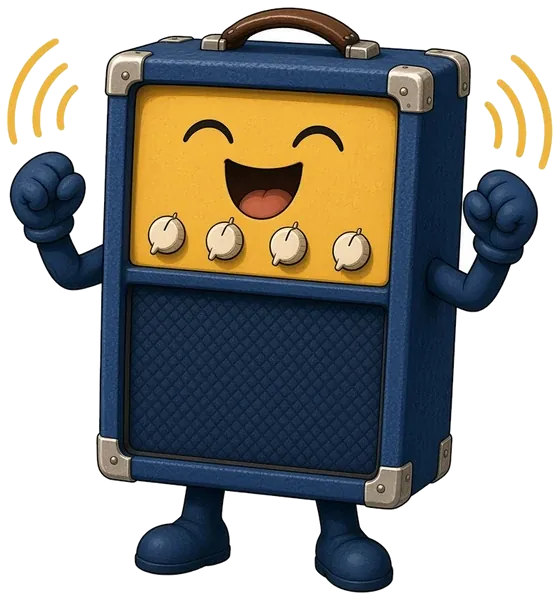
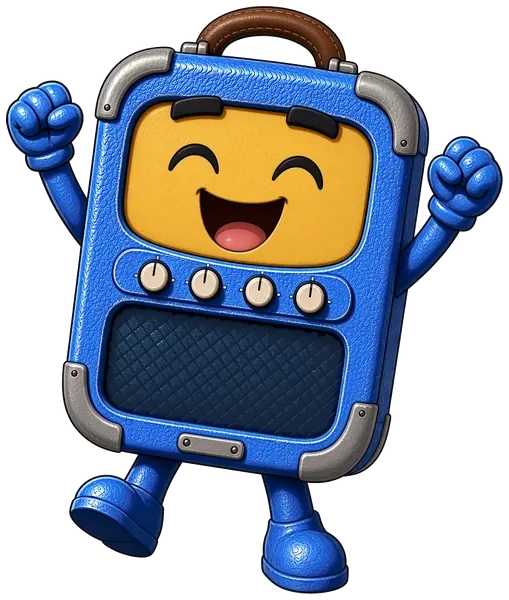
Louie: switch to bright-blue Tolex design (Graham's choice)

diff --git a/louie.js b/louie.js
@@ -6,7 +6,7 @@
 // panel for a face (two eyes, one mouth, a row of four cream knobs), a plain navy grille, hands and two short legs.
 // The hard rule: exactly one mouth (class lv-mouth), always on the yellow panel between the eyes and the knobs.
 // The grille is plain cloth: never a mouth, a smile line or any feature on it, in any mood, pose or size.
-// Hands have fingers, navy like his arms (Graham, 2026-11-17), and no hand ever shows one finger standing straight up
+// Hands have fingers, blue Tolex like his arms (Graham, 2026-11-17), and no hand ever shows one finger standing straight up
 // from the middle: it reads as the middle finger (4.39.1). No cheeks, no blush, no lamp.
 // His colours are locked: the --lv-* variables on .louie in styles.css, and the same values written on each
 // shape, so a picture made from the SVG alone shows the same Louie.
@@ -26,7 +26,7 @@ const guitaristFinger = (x, len, r) => `<rect x="${x - 4.6}" y="${-22 - len}" wi
 const G_PALM = `<path d="M-13 -4C-15.5 -11 -15.5 -20 -12.5 -25C-8 -28 8 -28 12.5 -25C15.5 -20 15.5 -11 13 -4C8 1 -8 1 -13 -4Z"/>`;
 const G_ROLLS = "C16.5 -26.5 16 -23.5 13.5 -21.5C16.5 -19 16 -15.5 13.5 -13.5C16.5 -11 16 -7 13 -5C12 0 6 1 0 1C-6 1 -10 1 -11 -1Z";
 const G_THUMB_ACROSS = `<path d="M-12.5 -15C-6 -18.5 4 -18.5 8.5 -15C10.5 -13 9.5 -10 7.5 -9.5C1 -8 -6 -8.5 -12 -10Z"/>`;
-/* each hand as [shape, creases, over]: the guitarist draws them in skin, Louie (since 03b) in navy */
+/* each hand as [shape, creases, over]: the guitarist draws them in skin, Louie (since 03b) in blue Tolex like his arms */
 const HAND_PARTS = {
   fist: [`<path d="M-13 -3C-16 -9 -16 -20 -12 -25Q-9 -29 -5.5 -26.5Q-2 -29.5 1.5 -26.5Q5 -29.5 8.5 -26.5Q12.5 -28 14 -23C16 -17 15.5 -9 13 -3C8 1 -8 1 -13 -3Z"/>`,
     `<path d="M-5.5 -26V-21M1.5 -26V-21M8.5 -26V-21"/>`, G_THUMB_ACROSS],
@@ -51,10 +51,10 @@ export function mittenOf(name, skin, sh, ln, cuff) {
     .replace(/class="lv-fl"/g, `stroke="${ln}"`).replace(/class="lv-cuff"/g, `fill="${cuff}"`);
 }
 
-/* Louie's hands (03b): the same fingered shapes as the guitarist's, in navy like his arms: an ink outline behind, the
-   Tolex shadow under the lit Tolex blue, ink creases, and a navy cuff. The wrist is at 0,0, the fingers point up. */
+/* Louie's hands (03b): the same fingered shapes as the guitarist's, in blue Tolex like his arms: an ink outline behind, the
+   Tolex shadow under the lit Tolex blue, ink creases, and a Tolex-shadow cuff. The wrist is at 0,0, the fingers point up. */
 const INK = "#0B0F14";
-const BLUE = 'fill="#23406A"', NAVY = 'fill="#1A3152"';
+const BLUE = 'fill="#3A86FF"', NAVY = 'fill="#2C6FE0"';
 const louieHand = (shape, creases = "", over = "") => `<g class="lv-mit-o" fill="none" stroke="${INK}" stroke-width="3.4" stroke-linejoin="round">${shape}${over}</g>`
   + `<g class="lv-mit-s" ${NAVY} transform="translate(1.25 1.9)">${shape}${over}</g><g class="lv-mit" ${BLUE}>${shape}</g>`
   + `<g class="lv-mit-l" fill="none" stroke="${INK}" stroke-opacity=".55" stroke-width="1.9" stroke-linecap="round">${creases}</g>`
@@ -128,7 +128,7 @@ export function louie(mood = "happy", { pose, size = 120, label = "Louie" } = {}
   const limbs = layer => !arms ? "" : arms.map(([sx, sy, wx, wy, rot, sign]) => {
     const mx = (sx + wx) / 2 + (wx < sx ? -8 : 8), my = Math.min(sy, wy) + (wy < sy ? 6 : 12);
     const arm = `d="M${sx} ${sy} Q${mx} ${my} ${wx} ${wy}" fill="none" stroke-linecap="round"`, at = `transform="translate(${wx} ${wy}) rotate(${rot}) scale(0.86 1.02)"`;
-    return layer === "arm" ? `<path class="lv-arm-o" stroke="${INK}" stroke-width="${r1(15 + 2 * ol)}" ${arm}/><path class="lv-arm" stroke="#23406A" stroke-width="15" ${arm}/><path stroke="#fff" stroke-opacity=".12" stroke-width="4" ${arm} transform="translate(-2 -2)"/>`
+    return layer === "arm" ? `<path class="lv-arm-o" stroke="${INK}" stroke-width="${r1(15 + 2 * ol)}" ${arm}/><path class="lv-arm" stroke="#3A86FF" stroke-width="15" ${arm}/><path stroke="#fff" stroke-opacity=".12" stroke-width="4" ${arm} transform="translate(-2 -2)"/>`
       : layer === "hand" ? `<g ${at}>${HANDS[sign]()}</g>`
       : `<path stroke-width="${r1(15 + 2 * rim)}" ${arm}/><g ${at}>${handShape(sign)}</g>`;
   }).join("");
@@ -149,12 +149,12 @@ export function louie(mood = "happy", { pose, size = 120, label = "Louie" } = {}
   <g class="lv-body" transform="${tilt}">
     <g class="lv-rim" opacity="0" fill="#FFE2B4" stroke="#FFE2B4" stroke-width="${r1(2 * rim)}" stroke-linejoin="round">${limbs("rim")}<path stroke-width="${r1(8 + 2 * rim)}" ${HANDLE}/><rect x="${CAB.x}" y="${CAB.y}" width="${CAB.w}" height="${CAB.h}" rx="7"/>${CAPS.map(cap).join("")}${LEGS}${BOOTS}</g>
     ${limbs("arm")}
-    <g class="lv-tolex" fill="#23406A" ${edge}>${LEGS}</g><g fill="url(#${id}t)">${LEGS}</g>
-    <g class="lv-side" fill="#1A3152" ${edge}>${BOOTS}</g><g fill="url(#${id}b)">${BOOTS}</g>
+    <g class="lv-tolex" fill="#3A86FF" ${edge}>${LEGS}</g><g fill="url(#${id}t)">${LEGS}</g>
+    <g class="lv-side" fill="#2C6FE0" ${edge}>${BOOTS}</g><g fill="url(#${id}b)">${BOOTS}</g>
     <path stroke="${INK}" stroke-width="${r1(8 + 2 * ol)}" ${HANDLE}/><path class="lv-leather" stroke="#55331B" stroke-width="8" ${HANDLE}/><path stroke="#fff" stroke-opacity=".22" stroke-width="2" d="M81 15 C82 5 118 5 119 15" fill="none" stroke-linecap="round"/>
     <g class="lv-nickel" fill="#948573" ${edge}><rect x="71" y="14" width="13" height="8" rx="2"/><rect x="116" y="14" width="13" height="8" rx="2"/></g>
-    <rect class="lv-side" fill="#1A3152" x="${CAB.x}" y="${CAB.y}" width="${CAB.w}" height="${CAB.h}" rx="7"/>
-    <rect class="lv-tolex" fill="#23406A" x="${CAB.x}" y="${CAB.y}" width="${CAB.w - 9}" height="${CAB.h}" rx="7"/>
+    <rect class="lv-side" fill="#2C6FE0" x="${CAB.x}" y="${CAB.y}" width="${CAB.w}" height="${CAB.h}" rx="7"/>
+    <rect class="lv-tolex" fill="#3A86FF" x="${CAB.x}" y="${CAB.y}" width="${CAB.w - 9}" height="${CAB.h}" rx="7"/>
     <rect fill="url(#${id}t)" x="${CAB.x}" y="${CAB.y}" width="${CAB.w}" height="${CAB.h}" rx="7"/><rect fill="url(#${id}b)" x="${CAB.x}" y="${CAB.y}" width="${CAB.w}" height="${CAB.h}" rx="7"/>
     <rect x="${CAB.x}" y="${CAB.y}" width="${CAB.w}" height="${CAB.h}" rx="7" fill="none" ${edge}/>
     <rect x="${P.x - 3}" y="${P.y - 3}" width="${P.w + 6}" height="${G.y + G.h - P.y + 6}" rx="5" fill="none" stroke="#000" stroke-opacity=".35" stroke-width="2"/>

diff --git a/styles.css b/styles.css
@@ -2054,13 +2054,13 @@ h2, .label, .sheet .sec { font-family: var(--display); }
 /* Louie's colours (Road Ready): locked, the same in every look. They are set on Louie himself, so the looks' own
    --lv-* values (which the electric tuner head also reads) stay as they were. A finish from the Merch table
    (.fin-*, body[data-wear]) still recolours him. Nothing draws --lv-cheek, --lv-lamp, --lv-tongue or --lv-hi on him now. */
-.louie { overflow: visible; --lv-body: #23406A; --lv-shade: #1A3152; --lv-face: #F0B23A; --lv-face-sh: #D9982A; --lv-grille: #182D47; --lv-slat: #2A4466; --lv-pupil: #0B0F14; --lv-nickel: #948573; --lv-leather: #55331B; --lv-knob: #E8D5B3; --lv-shadow: #000; }
+.louie { overflow: visible; --lv-body: #3A86FF; --lv-shade: #2C6FE0; --lv-face: #F0B23A; --lv-face-sh: #D9982A; --lv-grille: #182D47; --lv-slat: #2A4466; --lv-pupil: #0B0F14; --lv-nickel: #948573; --lv-leather: #55331B; --lv-knob: #E8D5B3; --lv-shadow: #000; }
 .louie .lv-mit-o, .louie .lv-arm-o { stroke: var(--lv-pupil); } .louie .lv-tolex, .louie .lv-mit { fill: var(--lv-body); } .louie .lv-side, .louie .lv-mit-s, .louie .lv-cuff { fill: var(--lv-shade); } .louie .lv-arm { stroke: var(--lv-body); }
 .louie .lv-panel { fill: var(--lv-face); } .louie .lv-panel-sh { fill: var(--lv-face-sh); } .louie .lv-ink { fill: var(--lv-pupil); } .louie .lv-inks { stroke: var(--lv-pupil); }
 .louie .lv-cloth { fill: var(--lv-grille); } .louie .lv-weave { stroke: var(--lv-slat); } .louie .lv-knob { fill: var(--lv-knob); }
 .louie .lv-nickel { fill: var(--lv-nickel); } .louie .lv-leather { stroke: var(--lv-leather); }
 .louie .lv-shadow { fill: var(--lv-shadow); opacity: .18; } .louie .lv-z { fill: var(--muted); }
-/* The warm rim, on dark looks only: a 3 px outline of his silhouette so navy reads on a dark screen. The colour is
+/* The warm rim, on dark looks only: a 3 px outline of his silhouette so his blue reads on a dark screen. The colour is
    --rr-louie-rim (#FFE2B4 at 35 percent) drawn solid and faded as one layer, so overlapping parts don't double up. */
 .louie .lv-rim { opacity: 0; }
 :root:is([data-look="neon"], [data-look="headliner"]) .louie .lv-rim { opacity: .35; }

diff --git a/CLAUDE.md b/CLAUDE.md
@@ -38,7 +38,7 @@ map; docs/DATA.md describes every stored field. Read those before guessing.
 
 The guitar is how you play the game. Version 4 look: four palettes. Light and Dark are Road Ready (Graham, 2026-11-17; docs/ROAD-READY-PLAN.md): dark or cream tolex, grille cloth, chrome piping, cream engraved plate buttons and warm amber, in Space Grotesk, Inter and IBM Plex Mono. Its colours are --rr-* tokens set only on data-look neon (dark) and festival (light); its text sizes are --type-* tokens that follow the iPhone text size. Green Room and Headliner keep the earlier style: flat colour, chunky buttons on a darker lip, Fredoka and Nunito. Light and Dark are free; Green Room is bought and Headliner earned at the Merch table. Headliner (black, gold and chrome with violet and blaze orange, 4.77.0) is a dark look that shares 23 rules with Road Ready dark through :root:is([data-look="neon"], [data-look="headliner"]); a Road Ready change to one of those rules splits the selector so Headliner stays as it is. Louie the amp is
 the mascot (no guitar-pick mascot anywhere; 4.14.1 and 4.15.0 removed the last
-picks). Louie is Road Ready in every look (docs/road-ready/louie-design-spec.md section 9): a blue 1x12 combo amp with a yellow control-panel face, shown as Grok's painted art (art/louie/v2, light and dark per pose). Exactly one mouth, on the yellow panel between the eyes and the four cream knobs; the grille is plain navy cloth and never a face. Hands with fingers, navy like his arms, and never one finger standing straight up. No cheeks, a locked palette, a warm rim on dark looks. louie.js picks the picture and keeps a code drawing as the fallback. Text in the accent colour uses `--accent-ink` (contrast in the light
+picks). Louie is Road Ready in every look (docs/road-ready/louie-design-spec.md section 9): a blue 1x12 combo amp with a yellow control-panel face, shown as Grok's painted art (art/louie/v2, light and dark per pose). Exactly one mouth, on the yellow panel between the eyes and the four cream knobs; the grille is plain navy cloth and never a face. Hands with fingers, blue Tolex like his arms, and never one finger standing straight up. No cheeks, a locked palette, a warm rim on dark looks. louie.js picks the picture and keeps a code drawing as the fallback. Text in the accent colour uses `--accent-ink` (contrast in the light
 palettes). The mockup canvas artifact has the screens and the Friends board. The Road path (4.82.0) is a guitar neck per leg: stops are finger dots and fret inlays (a box is one, the headline the double), picks only in Opening night.
 Your guitarist (4.85.0): wherever the app means *you* (profile card and share card, chart row, rival battle, duel, Friends board) it shows a guitarist built from parts in Louie's style; Louie stays the mascot everywhere else (the Road, gig end, callouts, tips, Opening night's guide, the Band tab). The look follows the venue, patches are earned and the guitar is the Road guitar you're on, so none of those are picked or bought; only hats are on the Merch table. `docs/GUITARIST-PLAN.md`.
 Louie's friends (Graham's art, 2026-10-21), redrawn in Louie's style: Lola

diff --git a/docs/road-ready/louie-design-spec.md b/docs/road-ready/louie-design-spec.md
@@ -234,13 +234,15 @@ Louie is **Road Ready**: a blue 1x12 combo amp with a yellow control-panel face 
 
 - **Exactly one mouth, always on the yellow panel**, between the eyes and the four cream knobs.
 - **The grille is never a face.** It's plain navy woven cloth with at most a faint speaker circle. No mouth, smile line or features on the grille, in any pose, size or frame.
-- Hands with fingers, navy like his arms (Graham, 2026-11-17). No hand ever shows one finger standing straight up: it reads as the middle finger. Short navy legs, brown leather handle, nickel corners.
+- Hands with fingers, blue Tolex like his arms (Graham, 2026-11-17). No hand ever shows one finger standing straight up: it reads as the middle finger. Short blue Tolex legs, brown leather handle, nickel corners.
+- **Stock Louie is bright-blue Tolex (Graham chose bright B on Nov 18, 2026).** Body #3A86FF, shade #2C6FE0, highlight #6BA4FF, with a visible pebble grain and light wear. The hands are the same blue Tolex as the arms (not yellow), with fingers and bold ink outlines. The panel, grille, knobs, corners and handle keep their colours. Grok's painted art in art/louie/v2 is the source of truth; don't redraw him.
 - **Locked palette:**
 
 | Part | Hex |
 |---|---|
-| Tolex blue | #23406A |
-| Tolex shadow | #1A3152 |
+| Tolex blue | #3A86FF |
+| Tolex shadow | #2C6FE0 |
+| Tolex highlight | #6BA4FF |
 | Panel yellow | #F0B23A |
 | Panel shade | #D9982A |
 | Grille navy | #182D47 |
@@ -251,9 +253,9 @@ Louie is **Road Ready**: a blue 1x12 combo amp with a yellow control-panel face 
 | Ink line | #0B0F14 |
 
 - **Expressions:** idle, cheering, listening, proud, oops, sleepy, nervous, celebrating. No tears, frowns or guilt faces. Oops is sheepish, never sad.
-- **On dark surfaces,** add a 3 px warm rim (#FFE2B4 at 35 percent) so the navy reads. Navy on #141210 is only 1.3:1 without it. On light surfaces, no rim is needed (12:1).
+- **On dark surfaces,** add a 3 px warm rim (#FFE2B4 at 35 percent) so his outline reads. The painted dark pictures (`-dark.webp`) bake in a wider, stronger rim (Nov 18, 2026): #FFE2B4 at 60 percent, 12 px on the 600 px art (solid for 9 px, fading over the last 3), so it is about 3 px at 120 pt and still 1.5 px at 60 pt on #141210. The dark files are 12 px bigger on each side than the light ones. The blue on #141210 is 5.4:1, but the dark ink outline melts into the ground without the rim. On light surfaces, no rim is needed (3.0:1 for the blue on #F6EFE2, with the ink outline carrying the edge).
 - **Placement:**
-  - Road: peeking from the left edge, one hand on the guitar body, away from inlays.
+  - Road: peeking from the left edge, one hand on the guitar body, away from inlays. The peek art (art/louie/louie-peek-*.webp) is bright B with his right hand resting on a maple guitar body, both eyes and the mouth visible.
   - Show Complete: cheering beside the guitar.
   - Lists: only as a fixed badge (Songbook hint banner, Me tip jar row). Never over rows.
   - Playing: only in the first-run hint.

diff --git a/docs/road-ready/claude-prompt-04-tab-bar.md b/docs/road-ready/claude-prompt-04-tab-bar.md
@@ -84,7 +84,7 @@ The bar on Road, Songbook and Me, dark and light, plus `data-ax="3"`. Put the ba
 - **Pull request.** Use the playbook's PR format (`templates/pr.md`): Status "Waiting for review", Triggers "Uploads and deploys nothing" (the PR targets `road-ready`, which deploys nothing), What changed, Tests actually run (counts, or "not run" and why; never claim a pass you didn't see), the acceptance criterion to test table, Limitations, a phone review checklist of three items at most, Built by, Reviewed by, and "Next step: Opus reviews". Title in plain words, starting "Road Ready 04:".
 - **Screenshots.** Make them the CLAUDE.md way: a throwaway `tests/e2e/zz_*.e2e.mjs` using `phone()` that saves to `$SHOT`, run it, then delete it before you commit. Take these, as PNGs, and put them in the PR description: phone dark, phone light, and phone dark with large text (see "Large text" below). Compare each one side by side with the round 10 image named in this prompt and list any differences you chose to leave.
 - **Writing.** Every word Graham or a player sees (UI text, comments he reads, commit messages, the PR) is plain and direct, with no em dashes. Any lyrics in tests or fixtures are made up, never real song lyrics.
-- **Louie hard rules.** Louie is Road Ready: a blue 1x12 combo amp with a yellow control-panel face. Exactly one mouth, always on the yellow panel between the eyes and the four cream knobs. The grille is plain navy cloth and is never a face (no mouth, smile line or features on it). Hands with fingers, navy like his arms; never one finger standing straight up (it reads as the middle finger). No blush or cheek spots, no guitar pick, no amp brand logos. He is a character who cheers the player on; never call him an AI or an assistant.
+- **Louie hard rules.** Louie is Road Ready: a blue 1x12 combo amp with a yellow control-panel face. Exactly one mouth, always on the yellow panel between the eyes and the four cream knobs. The grille is plain navy cloth and is never a face (no mouth, smile line or features on it). Hands with fingers, blue Tolex like his arms; never one finger standing straight up (it reads as the middle finger). No blush or cheek spots, no guitar pick, no amp brand logos. He is a character who cheers the player on; never call him an AI or an assistant.
 - **Product rules.** Encouraging, never guilt: no streak-loss warnings, sad faces or "you missed a day" copy in anything you add. Not a coin-path game board. Tolex and amp parts, not cartoon chrome. Tab icons are our own drawings. No lamps and no VU gauge anywhere you touch.
 
 ### How the spec maps to this web app

diff --git a/docs/road-ready/claude-prompt-05-playing.md b/docs/road-ready/claude-prompt-05-playing.md
@@ -80,7 +80,7 @@ Playing with controls hidden, shown, the first-run hint, and large text, in dark
 - **Pull request.** Use the playbook's PR format (`templates/pr.md`): Status "Waiting for review", Triggers "Uploads and deploys nothing" (the PR targets `road-ready`, which deploys nothing), What changed, Tests actually run (counts, or "not run" and why; never claim a pass you didn't see), the acceptance criterion to test table, Limitations, a phone review checklist of three items at most, Built by, Reviewed by, and "Next step: Opus reviews". Title in plain words, starting "Road Ready 05:".
 - **Screenshots.** Make them the CLAUDE.md way: a throwaway `tests/e2e/zz_*.e2e.mjs` using `phone()` that saves to `$SHOT`, run it, then delete it before you commit. Take these, as PNGs, and put them in the PR description: phone dark, phone light, and phone dark with large text (see "Large text" below). Compare each one side by side with the round 10 image named in this prompt and list any differences you chose to leave.
 - **Writing.** Every word Graham or a player sees (UI text, comments he reads, commit messages, the PR) is plain and direct, with no em dashes. Any lyrics in tests or fixtures are made up, never real song lyrics.
-- **Louie hard rules.** Louie is Road Ready: a blue 1x12 combo amp with a yellow control-panel face. Exactly one mouth, always on the yellow panel between the eyes and the four cream knobs. The grille is plain navy cloth and is never a face (no mouth, smile line or features on it). Hands with fingers, navy like his arms; never one finger standing straight up (it reads as the middle finger). No blush or cheek spots, no guitar pick, no amp brand logos. He is a character who cheers the player on; never call him an AI or an assistant.
+- **Louie hard rules.** Louie is Road Ready: a blue 1x12 combo amp with a yellow control-panel face. Exactly one mouth, always on the yellow panel between the eyes and the four cream knobs. The grille is plain navy cloth and is never a face (no mouth, smile line or features on it). Hands with fingers, blue Tolex like his arms; never one finger standing straight up (it reads as the middle finger). No blush or cheek spots, no guitar pick, no amp brand logos. He is a character who cheers the player on; never call him an AI or an assistant.
 - **Product rules.** Encouraging, never guilt: no streak-loss warnings, sad faces or "you missed a day" copy in anything you add. Not a coin-path game board. Tolex and amp parts, not cartoon chrome. Tab icons are our own drawings. No lamps and no VU gauge anywhere you touch.
 
 ### How the spec maps to this web app

diff --git a/docs/road-ready/claude-prompt-06-show-complete.md b/docs/road-ready/claude-prompt-06-show-complete.md
@@ -76,7 +76,7 @@ Ordinary show (glow) and new-guitar show (case), dark and light, plus large text
 - **Pull request.** Use the playbook's PR format (`templates/pr.md`): Status "Waiting for review", Triggers "Uploads and deploys nothing" (the PR targets `road-ready`, which deploys nothing), What changed, Tests actually run (counts, or "not run" and why; never claim a pass you didn't see), the acceptance criterion to test table, Limitations, a phone review checklist of three items at most, Built by, Reviewed by, and "Next step: Opus reviews". Title in plain words, starting "Road Ready 06:".
 - **Screenshots.** Make them the CLAUDE.md way: a throwaway `tests/e2e/zz_*.e2e.mjs` using `phone()` that saves to `$SHOT`, run it, then delete it before you commit. Take these, as PNGs, and put them in the PR description: phone dark, phone light, and phone dark with large text (see "Large text" below). Compare each one side by side with the round 10 image named in this prompt and list any differences you chose to leave.
 - **Writing.** Every word Graham or a player sees (UI text, comments he reads, commit messages, the PR) is plain and direct, with no em dashes. Any lyrics in tests or fixtures are made up, never real song lyrics.
-- **Louie hard rules.** Louie is Road Ready: a blue 1x12 combo amp with a yellow control-panel face. Exactly one mouth, always on the yellow panel between the eyes and the four cream knobs. The grille is plain navy cloth and is never a face (no mouth, smile line or features on it). Hands with fingers, navy like his arms; never one finger standing straight up (it reads as the middle finger). No blush or cheek spots, no guitar pick, no amp brand logos. He is a character who cheers the player on; never call him an AI or an assistant.
+- **Louie hard rules.** Louie is Road Ready: a blue 1x12 combo amp with a yellow control-panel face. Exactly one mouth, always on the yellow panel between the eyes and the four cream knobs. The grille is plain navy cloth and is never a face (no mouth, smile line or features on it). Hands with fingers, blue Tolex like his arms; never one finger standing straight up (it reads as the middle finger). No blush or cheek spots, no guitar pick, no amp brand logos. He is a character who cheers the player on; never call him an AI or an assistant.
 - **Product rules.** Encouraging, never guilt: no streak-loss warnings, sad faces or "you missed a day" copy in anything you add. Not a coin-path game board. Tolex and amp parts, not cartoon chrome. Tab icons are our own drawings. No lamps and no VU gauge anywhere you touch.
 
 ### How the spec maps to this web app

diff --git a/docs/road-ready/claude-prompt-07-songbook.md b/docs/road-ready/claude-prompt-07-songbook.md
@@ -71,7 +71,7 @@ Songbook dark, light, and large text, next to `r10-05`. Use made-up song titles 
 - **Pull request.** Use the playbook's PR format (`templates/pr.md`): Status "Waiting for review", Triggers "Uploads and deploys nothing" (the PR targets `road-ready`, which deploys nothing), What changed, Tests actually run (counts, or "not run" and why; never claim a pass you didn't see), the acceptance criterion to test table, Limitations, a phone review checklist of three items at most, Built by, Reviewed by, and "Next step: Opus reviews". Title in plain words, starting "Road Ready 07:".
 - **Screenshots.** Make them the CLAUDE.md way: a throwaway `tests/e2e/zz_*.e2e.mjs` using `phone()` that saves to `$SHOT`, run it, then delete it before you commit. Take these, as PNGs, and put them in the PR description: phone dark, phone light, and phone dark with large text (see "Large text" below). Compare each one side by side with the round 10 image named in this prompt and list any differences you chose to leave.
 - **Writing.** Every word Graham or a player sees (UI text, comments he reads, commit messages, the PR) is plain and direct, with no em dashes. Any lyrics in tests or fixtures are made up, never real song lyrics.
-- **Louie hard rules.** Louie is Road Ready: a blue 1x12 combo amp with a yellow control-panel face. Exactly one mouth, always on the yellow panel between the eyes and the four cream knobs. The grille is plain navy cloth and is never a face (no mouth, smile line or features on it). Hands with fingers, navy like his arms; never one finger standing straight up (it reads as the middle finger). No blush or cheek spots, no guitar pick, no amp brand logos. He is a character who cheers the player on; never call him an AI or an assistant.
+- **Louie hard rules.** Louie is Road Ready: a blue 1x12 combo amp with a yellow control-panel face. Exactly one mouth, always on the yellow panel between the eyes and the four cream knobs. The grille is plain navy cloth and is never a face (no mouth, smile line or features on it). Hands with fingers, blue Tolex like his arms; never one finger standing straight up (it reads as the middle finger). No blush or cheek spots, no guitar pick, no amp brand logos. He is a character who cheers the player on; never call him an AI or an assistant.
 - **Product rules.** Encouraging, never guilt: no streak-loss warnings, sad faces or "you missed a day" copy in anything you add. Not a coin-path game board. Tolex and amp parts, not cartoon chrome. Tab icons are our own drawings. No lamps and no VU gauge anywhere you touch.
 
 ### How the spec maps to this web app

diff --git a/docs/road-ready/claude-prompt-09-merch-builder.md b/docs/road-ready/claude-prompt-09-merch-builder.md
@@ -75,7 +75,7 @@ Builder in dark and light, each category open once, a locked swatch, "Leave stri
 - **Pull request.** Use the playbook's PR format (`templates/pr.md`): Status "Waiting for review", Triggers "Uploads and deploys nothing" (the PR targets `road-ready`, which deploys nothing), What changed, Tests actually run (counts, or "not run" and why; never claim a pass you didn't see), the acceptance criterion to test table, Limitations, a phone review checklist of three items at most, Built by, Reviewed by, and "Next step: Opus reviews". Title in plain words, starting "Road Ready 09:".
 - **Screenshots.** Make them the CLAUDE.md way: a throwaway `tests/e2e/zz_*.e2e.mjs` using `phone()` that saves to `$SHOT`, run it, then delete it before you commit. Take these, as PNGs, and put them in the PR description: phone dark, phone light, and phone dark with large text (see "Large text" below). Compare each one side by side with the round 10 image named in this prompt and list any differences you chose to leave.
 - **Writing.** Every word Graham or a player sees (UI text, comments he reads, commit messages, the PR) is plain and direct, with no em dashes. Any lyrics in tests or fixtures are made up, never real song lyrics.
-- **Louie hard rules.** Louie is Road Ready: a blue 1x12 combo amp with a yellow control-panel face. Exactly one mouth, always on the yellow panel between the eyes and the four cream knobs. The grille is plain navy cloth and is never a face (no mouth, smile line or features on it). Hands with fingers, navy like his arms; never one finger standing straight up (it reads as the middle finger). No blush or cheek spots, no guitar pick, no amp brand logos. He is a character who cheers the player on; never call him an AI or an assistant.
+- **Louie hard rules.** Louie is Road Ready: a blue 1x12 combo amp with a yellow control-panel face. Exactly one mouth, always on the yellow panel between the eyes and the four cream knobs. The grille is plain navy cloth and is never a face (no mouth, smile line or features on it). Hands with fingers, blue Tolex like his arms; never one finger standing straight up (it reads as the middle finger). No blush or cheek spots, no guitar pick, no amp brand logos. He is a character who cheers the player on; never call him an AI or an assistant.
 - **Product rules.** Encouraging, never guilt: no streak-loss warnings, sad faces or "you missed a day" copy in anything you add. Not a coin-path game board. Tolex and amp parts, not cartoon chrome. Tab icons are our own drawings. No lamps and no VU gauge anywhere you touch.
 
 ### How the spec maps to this web app

diff --git a/docs/road-ready/claude-prompt-08-me.md b/docs/road-ready/claude-prompt-08-me.md
@@ -76,7 +76,7 @@ Me dark, light, and large text, next to `r10-06`.
 - **Pull request.** Use the playbook's PR format (`templates/pr.md`): Status "Waiting for review", Triggers "Uploads and deploys nothing" (the PR targets `road-ready`, which deploys nothing), What changed, Tests actually run (counts, or "not run" and why; never claim a pass you didn't see), the acceptance criterion to test table, Limitations, a phone review checklist of three items at most, Built by, Reviewed by, and "Next step: Opus reviews". Title in plain words, starting "Road Ready 08:".
 - **Screenshots.** Make them the CLAUDE.md way: a throwaway `tests/e2e/zz_*.e2e.mjs` using `phone()` that saves to `$SHOT`, run it, then delete it before you commit. Take these, as PNGs, and put them in the PR description: phone dark, phone light, and phone dark with large text (see "Large text" below). Compare each one side by side with the round 10 image named in this prompt and list any differences you chose to leave.
 - **Writing.** Every word Graham or a player sees (UI text, comments he reads, commit messages, the PR) is plain and direct, with no em dashes. Any lyrics in tests or fixtures are made up, never real song lyrics.
-- **Louie hard rules.** Louie is Road Ready: a blue 1x12 combo amp with a yellow control-panel face. Exactly one mouth, always on the yellow panel between the eyes and the four cream knobs. The grille is plain navy cloth and is never a face (no mouth, smile line or features on it). Hands with fingers, navy like his arms; never one finger standing straight up (it reads as the middle finger). No blush or cheek spots, no guitar pick, no amp brand logos. He is a character who cheers the player on; never call him an AI or an assistant.
+- **Louie hard rules.** Louie is Road Ready: a blue 1x12 combo amp with a yellow control-panel face. Exactly one mouth, always on the yellow panel between the eyes and the four cream knobs. The grille is plain navy cloth and is never a face (no mouth, smile line or features on it). Hands with fingers, blue Tolex like his arms; never one finger standing straight up (it reads as the middle finger). No blush or cheek spots, no guitar pick, no amp brand logos. He is a character who cheers the player on; never call him an AI or an assistant.
 - **Product rules.** Encouraging, never guilt: no streak-loss warnings, sad faces or "you missed a day" copy in anything you add. Not a coin-path game board. Tolex and amp parts, not cartoon chrome. Tab icons are our own drawings. No lamps and no VU gauge anywhere you touch.
 
 ### How the spec maps to this web app

diff --git a/docs/ROAD-READY-PLAN.md b/docs/ROAD-READY-PLAN.md
@@ -6,7 +6,7 @@ Road Ready is the new look for Louie: dark tolex, grille cloth, chrome piping, c
 
 - 2026-11-17: **Road Ready replaces the two free looks.** Dark (data-look `neon`) becomes Road Ready dark. Light (data-look `festival`) becomes Road Ready light. Green Room and Headliner stay on the Merch table as they are. Look ids, prices and kinds are unchanged; only the names and the look change.
 - 2026-11-17, step 02 (the Road): **fans and streak stay on the Road**, as an incentive: a Fans pill in the header that shows the streak while there is one (never a 0 or a lost streak). **No tuner on the Road**: you tune where you play (More and the song screen). **Louie's one line stays.** **The book button (Rehearse) goes**, since Rehearse is a tab.
-- 2026-11-17, after the step 03 review: **Louie has hands with fingers, navy like his arms**, not mittens (replaces the mitten rule). No hand ever shows one finger standing straight up, since it reads as the middle finger (4.39.1). **Louie is Grok's painted art at every size**; the code drawing stays as a fallback. **Sleepy is redrawn by Grok** (it read as bored).
+- 2026-11-17, after the step 03 review: **Louie has hands with fingers, blue Tolex like his arms**, not mittens (replaces the mitten rule). No hand ever shows one finger standing straight up, since it reads as the middle finger (4.39.1). **Louie is Grok's painted art at every size**; the code drawing stays as a fallback. **Sleepy is redrawn by Grok** (it read as bored).
 - 2026-11-17, step 04 (the tab bar): **Option A, five tabs** in this order: Road (`#/`), Songbook (`#/library`), Rehearse (`#/practice`), Tour (`#/tour`), Me (`#/you`). The More sheet goes away from the tab bar. Charts, Your band, the Merch table, the Tuner and Support Louie become plain rows at the top of Me's list, and Settings becomes a gear button at the top right of Me. `#/band`, `#/charts`, `#/merch`, `#/support` and `#/settings` stay as pages with a back button.
 - 2026-11-17, step 04 (the tuner): **the tuner stays on the song screen, and there is a Tuner row on Me.** There is no Tune button on the Road. The Road header from step 02 stays as it is. The "not tuned lately" dot moves from the More tab to the Me tab and to the Tuner row.
 

diff --git a/docs/road-ready/claude-prompt-03-louie.md b/docs/road-ready/claude-prompt-03-louie.md
@@ -29,7 +29,7 @@ Louie is drawn in code by `louie(mood, { pose, size })` in `louie.js` and shows 
 
 ## What to build
 
-- **Body:** a 1x12 combo amp, a little taller than wide, Tolex blue #23406A with a darker right side #1A3152, nickel corner caps #948573 on all four corners, a brown leather handle #55331B on top.
+- **Body:** a 1x12 combo amp, a little taller than wide, Tolex blue #3A86FF with a darker right side #2C6FE0, nickel corner caps #948573 on all four corners, a brown leather handle #55331B on top.
 - **Face:** the yellow control panel (#F0B23A, shade #D9982A) across the top third. On it: two round eyes, **one mouth** between the eyes and the knobs, and a row of four cream knobs (#E8D5B3) with a dark pointer line each. Ink lines #0B0F14.
 - **Grille:** the bottom two thirds, plain navy cloth (#182D47) with a fine weave (#2A4466) and at most a faint speaker circle. **No mouth, smile line, slot or feature on the grille, in any mood, pose or size.** Delete the old speaker-mouth and slat-mouth shapes.
 - **Moods** (keep the names callers pass): `happy` (soft smile), `cheer` (open smile, eyes closed in happy arcs), `sleepy` (half-closed eyes, small closed mouth), `worried` (draw it as "nervous": eyebrows up, small wavy mouth, never sad or crying), `proud` (closed-eye smile, chin up). All mouths live on the panel.
